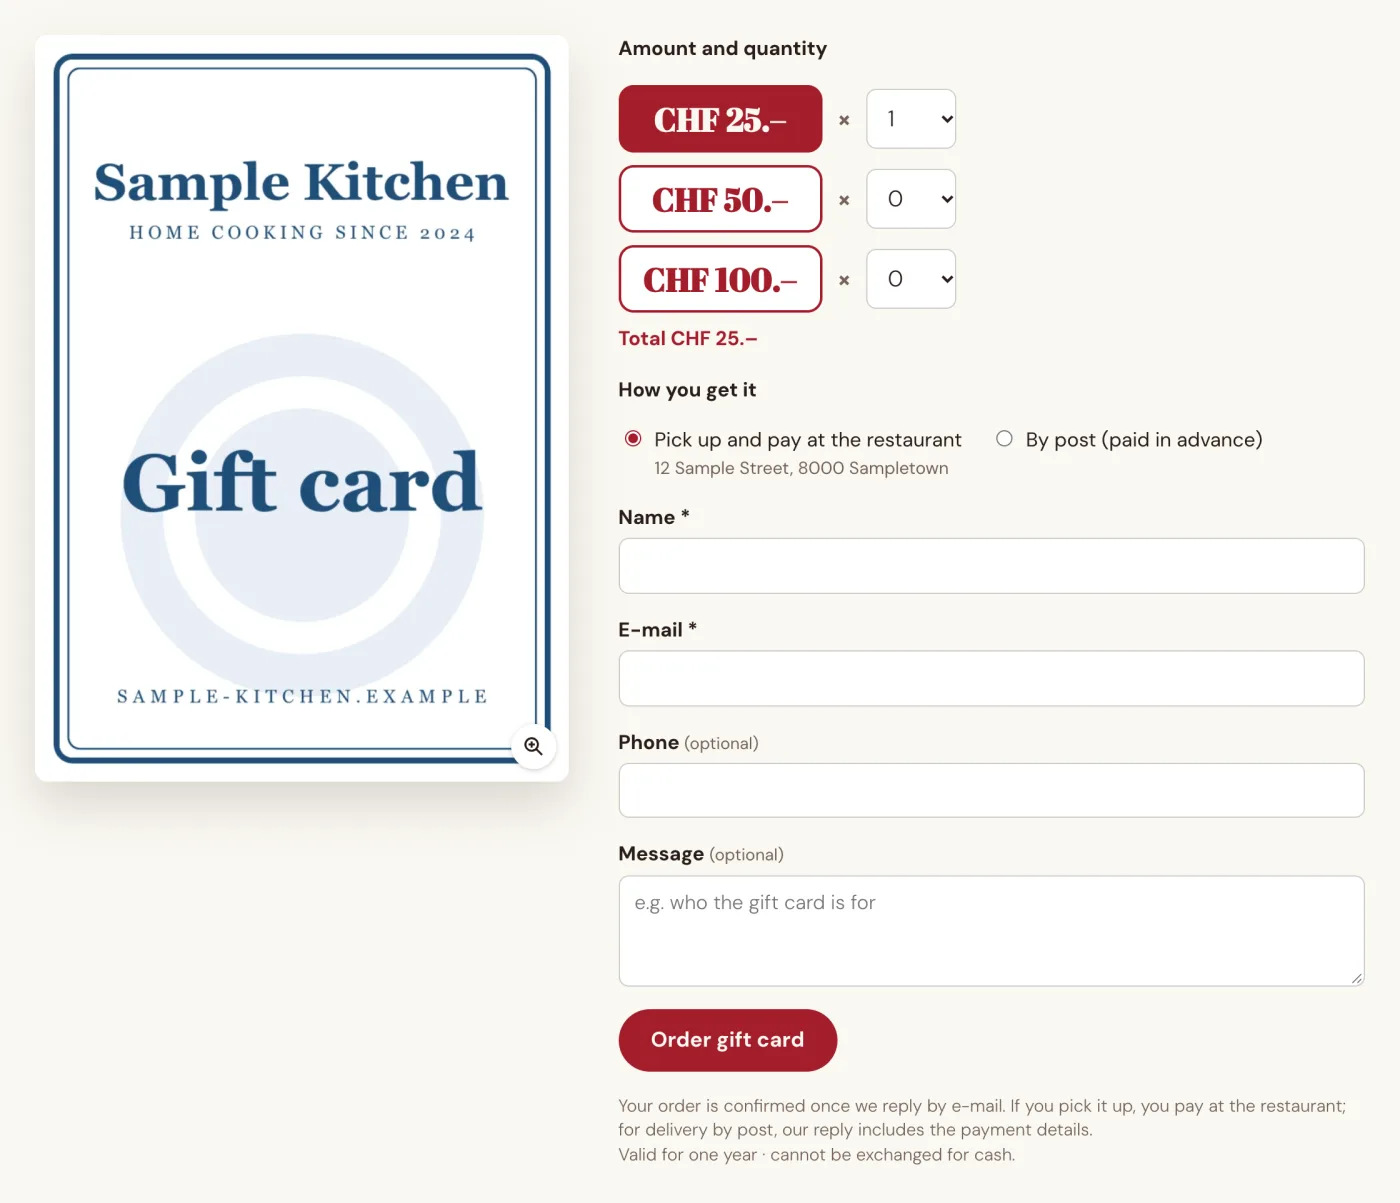
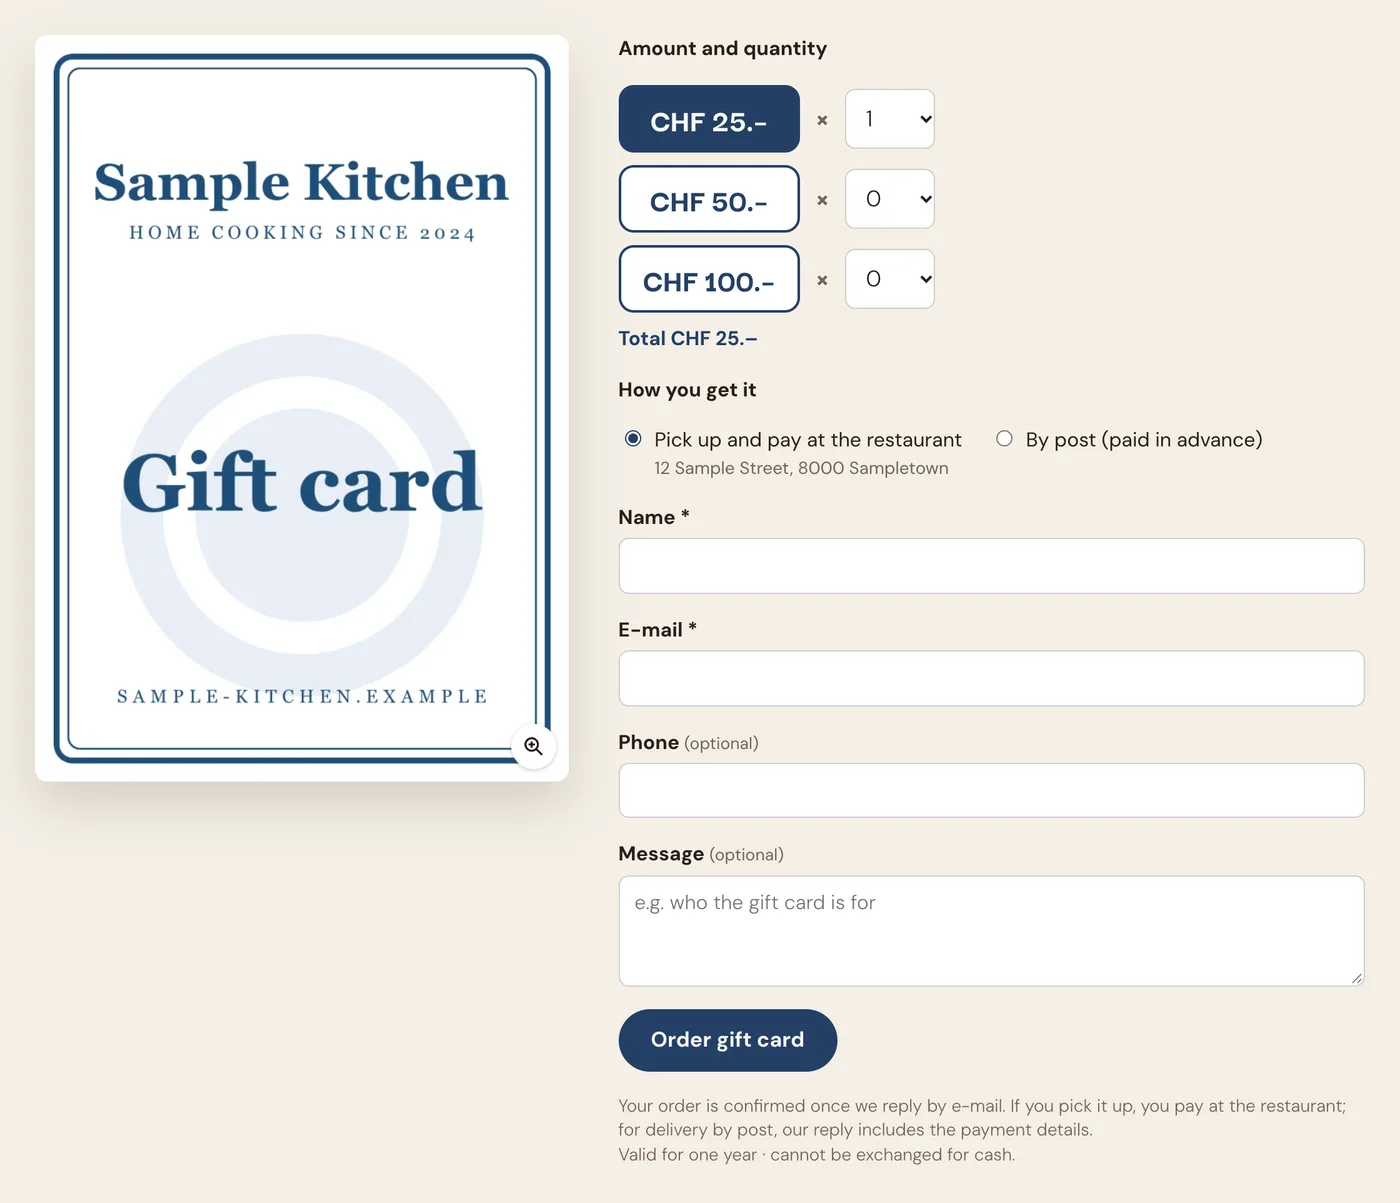
MenuDash: update for MenuDash 2.4, add-ons 1.3/1.4 and Theme 1.5
Recommended dishes block, own or website colours and fonts, dashboard in
German/English/Chinese, one-click updates; Restaurant social and review
links and "Visit us" page; lunch menu from the Excel file; gift card form
in the site's language; theme in three languages with Polylang. Packages
follow the 2026 price list (Menu + Gift Cards, opening packages, extras),
still without prices. Screenshots retaken in the 2.4 style.

diff --git a/src/content/projects/menudash/index.md b/src/content/projects/menudash/index.md
@@ -77,9 +77,14 @@ A Fatt, a Malaysian Chinese restaurant in Zürich, runs its menu on MenuDash: 11
 - Upload all dish photos at once. A check list shows every dish with its photo, and which ones are still missing.
 - Print QR table cards or a poster straight from the dashboard, with the Wi-Fi on them if they like.
 - Fill in where the meat and fish come from, as Swiss rules require in writing. It is translated into the menu languages and shown under the menu.
-- Pick colours and, if they want, their own diet icons, so the menu looks like their restaurant.
+- Show the recommended dishes, with their photos, on any page, such as the home page. Each one links to the menu. They can be split into groups, like meat and fish or vegan and vegetarian.
+- Leave the menu in the website’s own colours and fonts, or pick their own, and their own diet icons if they want, so the menu looks like their restaurant.
+- Use the dashboard in German, English or Chinese. It follows each user’s WordPress language.
+- Update MenuDash with one click, like any other plugin, when a new version comes out.
 
 ![The MenuDash page in the WordPress dashboard after an upload: a confirmation, the menu and photo upload boxes, and the check list of dishes](./dashboard-upload.webp)
+
+![The Recommended dishes block in the page editor: tabs for meat and fish or vegan and vegetarian, a row of dishes with photos and names in German and Chinese, and a button to the whole menu](./recommended-dishes.webp)
 
 ![The QR code tab: fields for the link, heading and Wi-Fi, and a live preview of the table card](./dashboard-qr.webp)
 
@@ -91,23 +96,23 @@ A Fatt, a Malaysian Chinese restaurant in Zürich, runs its menu on MenuDash: 11
 
 ## Add-ons
 
-MenuDash covers the menu. Three add-ons keep the rest of what guests look up on a restaurant website current, from the same dashboard page.
+MenuDash covers the menu. Three add-ons keep the rest of what guests look up on a restaurant website current, from the same dashboard page, which is in German, English or Chinese too.
 
 ### Restaurant
 
-Address, phone, delivery and reservation links, entered once. Opening hours with an “open now” badge, and a holiday notice that appears and disappears by itself.
+Address, phone, logo, delivery and reservation links, entered once. Opening hours with an “open now” badge, and a holiday notice that appears and disappears by itself. Links to Instagram, Facebook, TikTok, YouTube and WhatsApp, and to the restaurant’s Google and Tripadvisor reviews. A ready-made “Visit us” page with the address, the way there and the opening hours.
 
 ![The opening hours form: time pickers per day, and a preview of how the hours read on the site](./addon-restaurant.webp)
 
 ### Specials
 
-Today’s specials and the lunch menu of the week, each from its own short spreadsheet, in the same style and languages as the menu.
+Today’s specials and the lunch menu of the week, in the same style and languages as the menu. Each comes from its own short spreadsheet, or from its own sheet in the menu’s Excel file. The lunch menu shows today, with the whole week one tap away.
 
 ![Today’s specials on the site: starters, main courses and sides in German, English and Chinese, with diet marks and prices](./addon-specials.webp)
 
 ### Gift Cards
 
-A gift card order form. The order arrives by e-mail; a switch pauses it, and spam is kept out.
+A gift card order form in the website’s language. The order arrives by e-mail with the restaurant’s logo; a switch pauses it, and spam is kept out.
 
 ![The gift card page: the card picture beside a form with amounts, pickup or post, name, e-mail and an order button](./addon-giftcards.webp)
 
@@ -117,9 +122,13 @@ A gift card order form. The order arrives by e-mail; a switch pauses it, and spa
 
 ## MenuDash Theme
 
-A full restaurant website around MenuDash: a home page with the recommended dishes, opening hours and a map, the lunch menu and specials above the menu, and a Call · Directions · Menu bar on phones. The address and hours are typed once, in MenuDash, and every page shows them.
+A full restaurant website around MenuDash: a home page with the recommended dishes, opening hours and a map, the lunch menu and specials above the menu, links to the restaurant’s social media and reviews, and a Call · Directions · Menu bar on phones. The address and hours are typed once, in MenuDash, and every page shows them.
+
+The theme works with MenuDash alone, and fills in more as add-ons are added. It is in German, English and Chinese; with the free Polylang plugin, each page can have its own version in every language, with a language switch in the header.
 
 ![The MenuDash Theme home page with sample content: an “opens today” badge, the address, a headline, and Menu, Reserve and Order online buttons](./theme-home.webp)
+
+![The MenuDash Theme home page in German, English and Chinese, each with its own navigation and a DE · EN · 中文 switch in the header](./theme-languages.webp)
 
 ![The theme’s menu page: jump buttons to the lunch menu, today’s specials and the menu, a language switch, and the lunch menu of the day](./theme-menu.webp)
 
@@ -131,16 +140,21 @@ A full restaurant website around MenuDash: a home page with the recommended dish
 
 ## Packages
 
-We set MenuDash up for restaurants. Each package is a one-time setup; the add-ons come with a yearly fee, which pays for their updates and for help when something changes.
+We set MenuDash up for restaurants. Each package is a one-time setup; the add-ons come with a yearly fee, which pays for their updates, installed by us, and for help when something changes. MenuDash itself updates from the WordPress dashboard.
 
 | Package | What’s in it | Fees |
 |---|---|---|
 | **Menu** | MenuDash: the menu, photos, filters, QR cards and colours | One-time setup. Care plan optional. |
 | **Menu + Restaurant** | MenuDash with the Restaurant add-on | One-time setup, plus a yearly fee |
+| **Menu + Gift Cards** | MenuDash with the Gift Cards add-on | One-time setup, plus a yearly fee |
 | **Complete** | MenuDash with Restaurant, Specials and Gift Cards | One-time setup, plus a yearly fee |
 | **Complete + website** | Everything above, on the MenuDash Theme or on a design made for the restaurant | One-time setup, plus a yearly fee |
 
 Add-ons can be added to any package later. Every package is a fixed price, agreed in writing before we start.
+
+**Opening a restaurant or café?** Two packages start from nothing: a website on the MenuDash Theme with the menu and the Restaurant add-on, the Google Business Profile, a domain and e-mail, drafts of the Impressum and privacy policy, and QR table cards. The larger one adds Specials, Gift Cards, the meat origin and allergy note, a gift card design and an hour of training.
+
+**Also on request:** a theme designed for the restaurant, like afatt.ch’s own; a monthly care plan with WordPress updates, backups and monitoring, and hours for changes; and print design for gift cards, flyers or a printed menu.
 
 For prices, write to us with your current menu and your website address. We send the price list and a written estimate for your restaurant.
 
